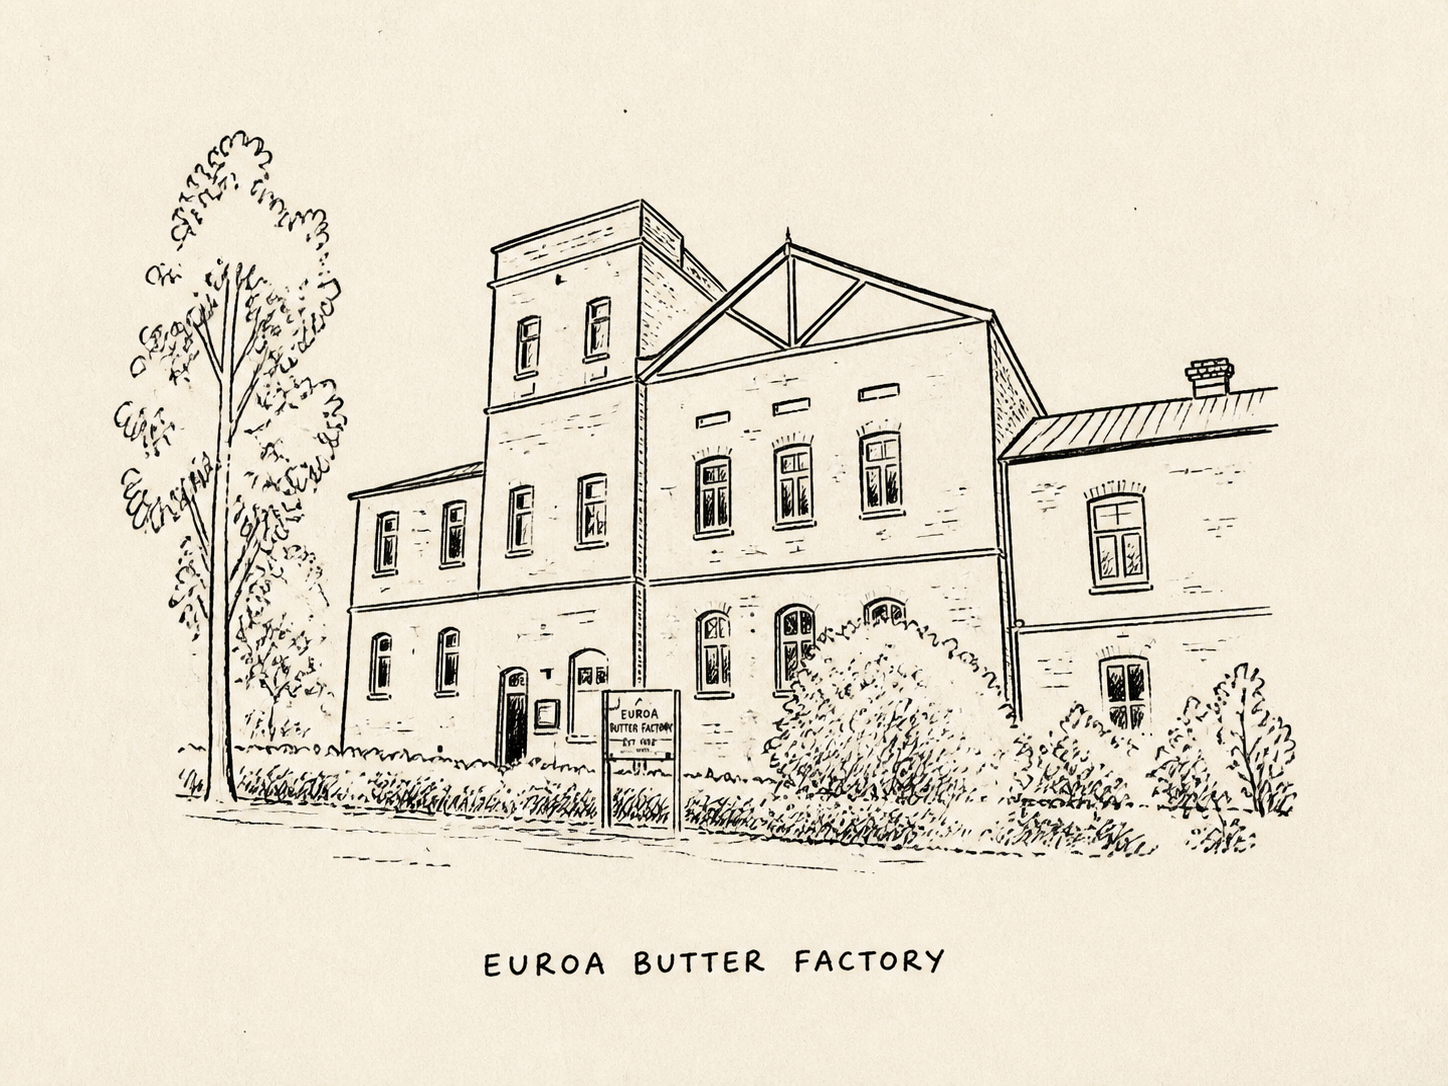
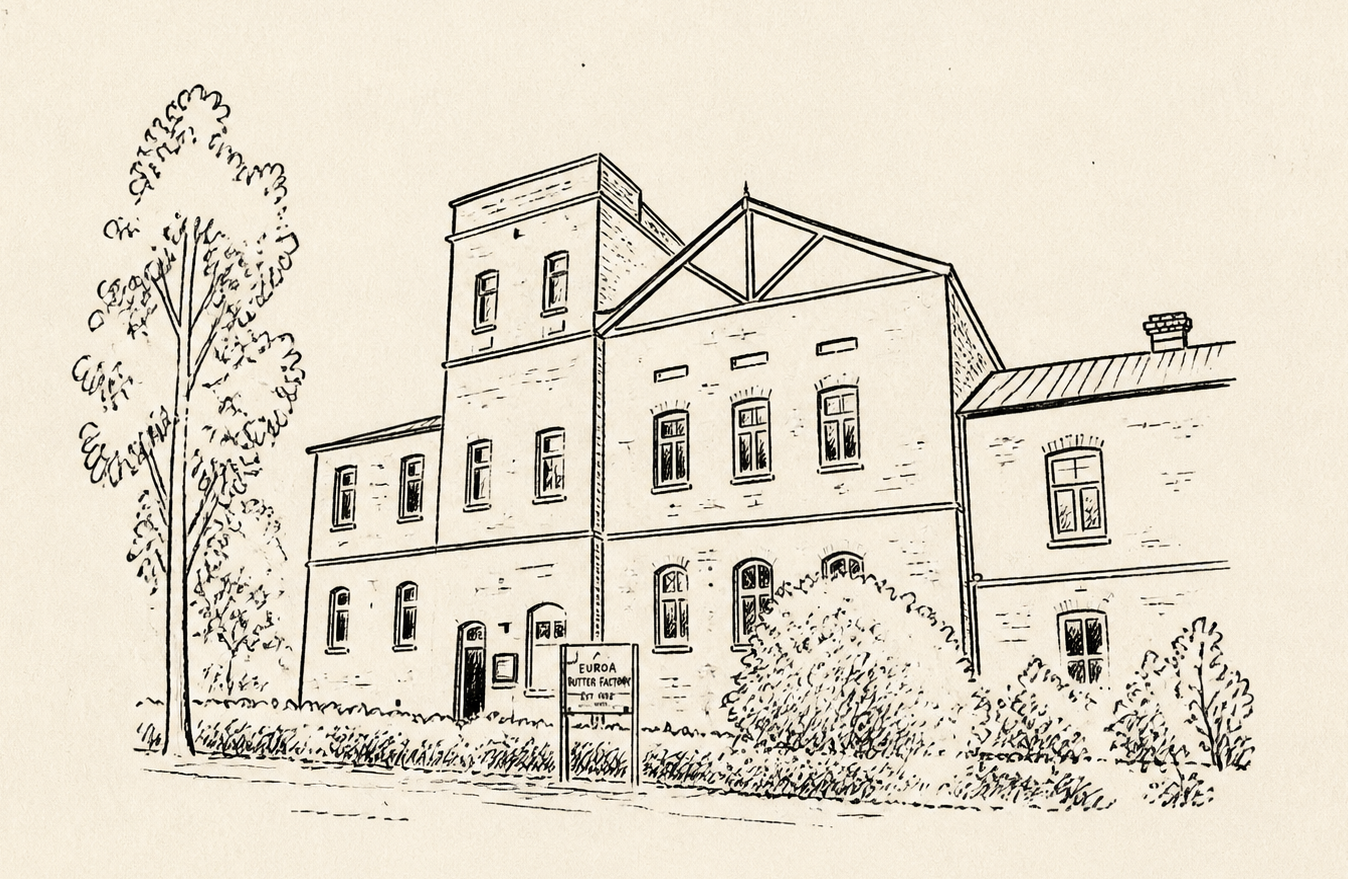
Release 1.15

Changed region(s): [[0.0623, 0.0922, 0.9347, 0.9522]]

diff --git a/components/Hero.tsx b/components/Hero.tsx
@@ -1,42 +1,32 @@
-import Image from "next/image";
 import { weddingData } from "@/lib/wedding";
 
 export default function Hero() {
   const { couple, date } = weddingData;
-
-  const formattedDate = new Date(`${date}T12:00:00`).toLocaleDateString(
-    "en-AU",
-    {
-      day: "numeric",
-      month: "long",
-      year: "numeric",
-    }
-  );
+  const formattedDate = new Date(date).toLocaleDateString("en-US", {
+    year: "numeric",
+    month: "long",
+    day: "numeric",
+  });
 
   return (
     <section
       id="hero"
-      className="flex min-h-screen flex-col items-center justify-center px-4 py-24 text-center"
+      className="w-full flex flex-col items-center justify-start px-4 pt-20 pb-16 text-center bg-warm-cream"  // pb-8 → pb-16
     >
-      <Image
-        src="/dancing-illustration.png"
-        alt={`${couple.bride} and ${couple.groom} dancing`}
-        width={700}
-        height={700}
-        priority
-        className="mx-auto mb-8 h-auto w-64 object-contain md:w-80"
-        sizes="(max-width: 768px) 16rem, 20rem"
-      />
-
-      <h1 className="heading mb-4 text-5xl md:text-7xl lg:text-8xl">
+      <div className="w-72 md:w-96 h-80 md:h-[440px] mx-auto mb-4 rounded-2xl overflow-hidden bg-transparent">
+        <img
+          src="/dancing-illustration.png"
+          alt={`${couple.bride} and ${couple.groom} dancing`}
+          className="w-full h-full object-contain p-4"
+        />
+      </div>
+      <h1 className="heading text-5xl md:text-7xl lg:text-8xl mb-2">
         {couple.bride} &amp; {couple.groom}
       </h1>
-
-      <p className="subheading mb-2 text-xl uppercase tracking-[0.2em] text-ink/80 md:text-2xl">
+      <p className="subheading text-xl md:text-2xl tracking-[0.2em] uppercase text-ink/80 mb-2">
         Save the Date
       </p>
-
-      <p className="body-text text-lg text-ink/70 md:text-xl">
+      <p className="body-text text-lg md:text-xl text-ink/70">
         {formattedDate}
       </p>
     </section>

diff --git a/components/Venue.tsx b/components/Venue.tsx
@@ -1,39 +1,31 @@
-import Image from "next/image";
 import { weddingData } from "@/lib/wedding";
 
 export default function Venue() {
   const { location } = weddingData;
 
   return (
-    <section id="venue" className="bg-cream px-4 py-20">
-      <div className="mx-auto max-w-4xl">
-        <h2 className="heading mb-8 text-center text-4xl md:text-5xl">
+    <section id="venue" className="py-20 pb-32 px-4 bg-warm-cream">  {/* Added pb-16 */}
+      <div className="max-w-4xl mx-auto">
+        <h2 className="heading text-4xl md:text-5xl text-center mb-10">
           Venue &amp; Location
         </h2>
-
-        <Image
-          src="/euroa-butter-factory.png"
-          alt={`Hand-drawn illustration of ${location.name}`}
-          width={1200}
-          height={900}
-          className="mx-auto h-auto w-full rounded-xl object-contain shadow-md"
-          sizes="(max-width: 768px) 100vw, 56rem"
-        />
-
+        <div className="w-full h-72 md:h-[500px] rounded-xl overflow-hidden shadow-lg mb-4 bg-transparent">
+          <img
+            src="/euroa-butter-factory.png"
+            alt={location.name}
+            className="w-full h-full object-cover"
+          />
+        </div>
         <div className="text-center">
-          <h3 className="heading mt-6 text-2xl md:text-3xl">
-            {location.name}
-          </h3>
-
-          <p className="body-text mt-2 text-lg text-ink/70">
+          <h3 className="heading text-2xl md:text-3xl">{location.name}</h3>
+          <p className="body-text text-lg text-ink/70 mt-2">
             {location.address}
           </p>
-
           <a
             href={location.mapUrl}
             target="_blank"
             rel="noopener noreferrer"
-            className="body-text mt-4 inline-block border-b border-gold/30 pb-1 text-sm uppercase tracking-widest text-gold transition-colors hover:text-ink"
+            className="inline-block mt-4 body-text text-sm uppercase tracking-widest text-gold hover:text-ink transition-colors border-b border-gold/30 pb-1"
           >
             View on Map
           </a>

diff --git a/components/Sunset.tsx b/components/Sunset.tsx
@@ -1,23 +1,16 @@
-import Image from "next/image";
-
 export default function Sunset() {
   return (
-    <section id="sunset" className="bg-cream px-4 py-20">
-      <div className="mx-auto max-w-4xl text-center">
-        <h2 className="heading mb-8 text-4xl md:text-5xl">
-          Until We Meet
-        </h2>
-
-        <Image
-          src="/sunset-illustration.png"
-          alt="Rebecca and Will looking at the sunset"
-          width={900}
-          height={675}
-          className="mx-auto h-auto w-full max-w-md object-contain"
-          sizes="(max-width: 768px) 100vw, 28rem"
-        />
-
-        <p className="body-text mt-6 text-lg text-ink/70">
+    <section id="sunset" className="py-8 px-4 bg-warm-cream">  {/* Reduced from py-12 */}
+      <div className="max-w-4xl mx-auto text-center">
+        <h2 className="heading text-4xl md:text-5xl mb-4">Until We Meet</h2>
+        <div className="w-full max-w-md mx-auto h-80 md:h-96 rounded-2xl overflow-hidden bg-transparent">
+          <img
+            src="/sunset-illustration.png"
+            alt="Rebecca and Will looking at sunset"
+            className="w-full h-full object-contain p-4"
+          />
+        </div>
+        <p className="body-text text-lg text-ink/70 mt-4">
           Looking forward to celebrating with you!
         </p>
       </div>

diff --git a/components/Countdown.tsx b/components/Countdown.tsx
@@ -1,34 +1,42 @@
-// components/Countdown.tsx
 "use client";
 
 import { useEffect, useState } from "react";
 import { weddingData } from "@/lib/wedding";
 
 export default function Countdown() {
-  const targetDate = new Date(weddingData.date).getTime();
+  // Parse the date as UTC to avoid timezone shifts
+  const targetDate = Date.UTC(2027, 10, 20); // Month is 0-indexed: November = 10
   const [days, setDays] = useState(0);
 
   useEffect(() => {
-    const interval = setInterval(() => {
-      const now = new Date().getTime();
+    let animationFrameId: number;
+
+    const updateCountdown = () => {
+      const now = Date.now();
       const difference = targetDate - now;
+
       if (difference <= 0) {
-        clearInterval(interval);
         setDays(0);
         return;
       }
+
       const daysRemaining = Math.floor(difference / (1000 * 60 * 60 * 24));
       setDays(daysRemaining);
-    }, 1000);
 
-    return () => clearInterval(interval);
+      animationFrameId = requestAnimationFrame(updateCountdown);
+    };
+
+    // Start the loop
+    animationFrameId = requestAnimationFrame(updateCountdown);
+
+    return () => cancelAnimationFrame(animationFrameId);
   }, [targetDate]);
 
   return (
-    <section id="countdown" className="py-20 px-4 bg-white/30">
+    <section id="countdown" className="py-16 px-4 bg-warm-cream">
       <div className="max-w-4xl mx-auto text-center">
-        <h2 className="heading text-4xl md:text-5xl mb-8">Counting Down</h2>
-        <div className="bg-cream p-8 rounded-xl shadow-sm inline-block">
+        <h2 className="heading text-4xl md:text-5xl mb-20">Counting Down</h2>
+        <div className="bg-warm-cream/80 p-6 rounded-xl shadow-sm inline-block border border-ink/10">
           <div className="heading text-6xl md:text-8xl text-ink">{days}</div>
           <div className="subheading text-lg md:text-xl uppercase tracking-widest text-ink/60 mt-2">
             Days

diff --git a/components/Note.tsx b/components/Note.tsx
@@ -1,19 +1,16 @@
-// components/Note.tsx
 import { weddingData } from "@/lib/wedding";
 
 export default function Note() {
-  const { couple } = weddingData;
   return (
-    <section id="note" className="py-20 px-4 bg-white/50">
+    <section id="note" className="py-8 px-4 bg-warm-cream">  {/* Reduced from py-12 */}
       <div className="max-w-2xl mx-auto text-center">
-        <h2 className="heading text-4xl md:text-5xl mb-6">A Personal Note</h2>
+        <h2 className="heading text-4xl md:text-5xl mb-4">A Note From Us</h2>
         <p className="body-text text-lg md:text-xl leading-relaxed text-ink/80">
-          We are overjoyed to invite you to celebrate our love. Your presence
-          means the world to us, and we can&apos;t wait to share this special
-          day with you. More details to follow – stay tuned!
+          Not another wedding... you might be thinking, but we promise this one
+          is going to be special. Welcome to our Save the Date.
         </p>
-        <p className="body-text text-md text-ink/60 mt-4">
-          — {couple.bride} &amp; {couple.groom}
+        <p className="body-text text-lg md:text-xl leading-relaxed text-ink/80 mt-4">
+          Please keep it free. More details to come!
         </p>
       </div>
     </section>

diff --git a/app/globals.css b/app/globals.css
@@ -1,11 +1,9 @@
 /* app/globals.css */
-@tailwind base;
-@tailwind components;
-@tailwind utilities;
+@import "tailwindcss";
 
 @layer base {
   :root {
-    --color-cream: #fdf8f0;
+    --color-warm-cream: #f3ebd9;  /* your specified color */
     --color-ink: #2c2c2c;
     --color-gold: #b8860b;
   }
@@ -15,7 +13,7 @@
   }
 
   body {
-    background-color: var(--color-cream);
+    background-color: var(--color-warm-cream);
     color: var(--color-ink);
     font-family: var(--font-inter), sans-serif;
   }

diff --git a/components/Navigation.tsx b/components/Navigation.tsx
@@ -1,4 +1,3 @@
-// components/Navigation.tsx
 "use client";
 
 import { useState, useEffect } from "react";
@@ -8,7 +7,6 @@ const navItems = [
   { label: "Countdown", href: "#countdown" },
   { label: "Venue", href: "#venue" },
   { label: "Note", href: "#note" },
-  { label: "Sunset", href: "#sunset" },
 ];
 
 export default function Navigation() {
@@ -26,8 +24,8 @@ export default function Navigation() {
     <nav
       className={`fixed top-0 left-0 w-full z-50 transition-all duration-300 ${
         isScrolled
-          ? "bg-cream/95 backdrop-blur-sm shadow-sm py-3"
-          : "bg-transparent py-5"
+          ? "bg-warm-cream/90 backdrop-blur-sm shadow-sm py-2"
+          : "bg-transparent py-3"
       }`}
     >
       <div className="max-w-7xl mx-auto px-4 sm:px-6 flex justify-center space-x-6 md:space-x-10 text-sm md:text-base">
@@ -35,7 +33,7 @@ export default function Navigation() {
           <a
             key={item.href}
             href={item.href}
-            className="heading uppercase tracking-widest text-ink/70 hover:text-ink transition-colors duration-200"
+            className="heading uppercase tracking-widest text-ink/70 hover:text-ink transition-colors duration-200 text-xs md:text-sm"
           >
             {item.label}
           </a>

diff --git a/app/page.tsx b/app/page.tsx
@@ -1,4 +1,3 @@
-// app/page.tsx
 import Navigation from "@/components/Navigation";
 import Hero from "@/components/Hero";
 import Countdown from "@/components/Countdown";
@@ -11,7 +10,7 @@ export default function Home() {
   return (
     <>
       <Navigation />
-      <main className="pt-16">
+      <main className="pt-0">  {/* Changed from pt-14 to pt-0 */}
         <Hero />
         <Countdown />
         <Venue />

diff --git a/components/Footer.tsx b/components/Footer.tsx
@@ -1,9 +1,8 @@
-// components/Footer.tsx
 import { weddingData } from "@/lib/wedding";
 
 export default function Footer() {
   return (
-    <footer className="bg-ink text-cream py-8 px-4 text-center">
+    <footer className="bg-ink text-warm-cream py-8 px-4 text-center">
       <div className="max-w-4xl mx-auto">
         <p className="heading text-sm uppercase tracking-widest">
           Rebecca &amp; Will

diff --git a/lib/wedding.ts b/lib/wedding.ts
@@ -4,7 +4,7 @@ export const weddingData = {
     bride: "Rebecca",
     groom: "Will",
   },
-  date: "2027-06-19",
+  date: "2027-11-20",   // Updated from "2027-06-19"
   location: {
     name: "Euroa Butter Factory",
     address: "Euroa, Victoria, Australia",

diff --git a/tailwind.config.ts b/tailwind.config.ts
@@ -9,7 +9,7 @@ const config: Config = {
   theme: {
     extend: {
       colors: {
-        cream: "#fdf8f0",
+        "warm-cream": "#f3ebd9",   // your exact color
         ink: "#2c2c2c",
         gold: "#b8860b",
       },